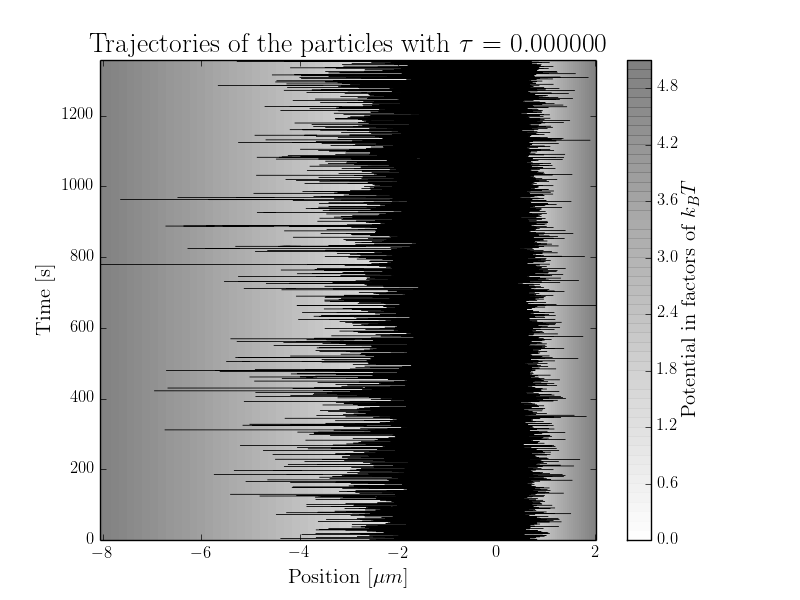
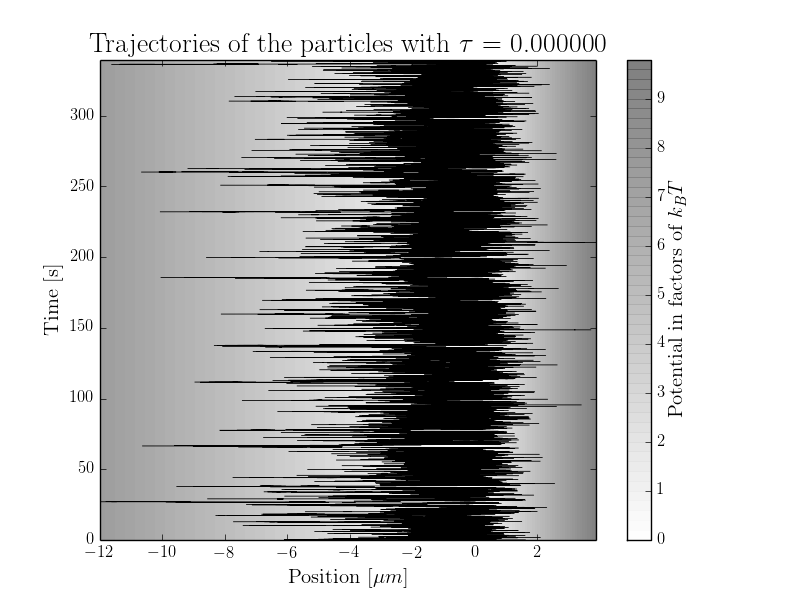
The particles are now Boltzmann distributed. Hurra!

diff --git a/assignment_01/make_plot.py b/assignment_01/make_plot.py
@@ -11,7 +11,7 @@ rc('text', usetex=True)
 import scipy
 from scipy.integrate import quad
 
-
+# Read data from file
 def read_data():
 	fin = open(file_name + '.txt', 'r')
 	dim1, dim2 = [int(x) for x in fin.readline().split()] 	# read first line
@@ -35,16 +35,18 @@ def read_data():
 	data = np.reshape(data, (dim1, dim2))
 	fin.close()
 	return (data, dim1, dim2, dt, alfa, tau, omega, dU, L, kT, minimum, maximum)
-	
+
+# The potential
 def potential(x, alfa):
 
 	x = x - np.floor(x/1.0)*1.0
 	if (x >= 0.0 and x < alfa):
 		U = x/alfa
-	else:
+	elif (x >= alfa and x < 1.0):
 		U = (1.0-x)/(1.0-alfa)
 	return U
 
+# Plot the trajectory of the particle(s) and the potential they are in
 def plot_trajectory(data, dim1, dim2, alfa, tau, minimum, maximum):
 	trajectory = plt.figure()
 	define_color_cycle(trajectory)
@@ -63,7 +65,7 @@ def plot_trajectory(data, dim1, dim2, alfa, tau, minimum, maximum):
 	x = np.linspace(minimum, maximum, nPoints)
 	pot = np.zeros(nPoints)
 	for i in range(0, len(x)):
-		pot[i] = scale_potential*potential(x[i], alfa)
+		pot[i] = scale_potential/kT*potential(x[i], alfa)			# Potential in factors of kT
 	#plt.plot(x*scale_length, 0.2*y[-1]/max(pot) * pot, 'k')		# The potential as a graph
 
 	stuff = np.linspace(0, y[-1], nPoints)
@@ -79,6 +81,7 @@ def plot_trajectory(data, dim1, dim2, alfa, tau, minimum, maximum):
 	# Saving figure
 	plt.savefig('trajectory' + '.png');
 
+# Defines a cosumised color cycle for the plotting
 def define_color_cycle(fig_name):
 	# Define color cycle for the figure fig_name
 	NUM_COLORS = 10
@@ -87,21 +90,19 @@ def define_color_cycle(fig_name):
 	ax.set_color_cycle([cm(1.*i/NUM_COLORS) for i in range(NUM_COLORS)])
 
 
+# Makes a histogram of where in the potential the particles have been and
+# compares it to the true Boltzmann distribution from statistical mechanics
 def make_boltzmann_histogram(data,  dU, kT):
+	# Plot histogram of Boltzmann distribution
 	minimum = min(data)
 	maximum = max(data)
-	hist, bins = np.histogram(data, bins=1000, range=(minimum, maximum), normed=True)
-	
-	# Plot histogram
-	width = (bins[1] - bins[0])
+	hist, bins = np.histogram(data, bins=100, range=(minimum, maximum), normed=True)
 	center = (bins[:-1] + bins[1:]) / 2
-	histogram = plt.figure()
+	histogram = plt.figure()		#plt.bar(center, hist, align='center', width=bins[1] - bins[0])			
+	plt.plot(center, hist,'ro')
 	plt.title(r'Boltzmann Distribution for $dU / k_BT=$ %d'%(dU/kT), fontsize = 20)
 	
-	#plt.bar(center, hist, align='center', width=width)			
-	plt.plot(center, hist,'ro')
-	
-	# Plot Boltzmann distribution
+	# Plot exact Boltzmann distribution
 	boltzmann_dist = lambda U: np.exp(-U/kT) / (kT*(1-np.exp(-dU/kT)))
 	U = np.linspace(minimum, maximum, 1000)
 	plt.plot( U, boltzmann_dist(U) )
@@ -109,7 +110,9 @@ def make_boltzmann_histogram(data,  dU, kT):
 	
 	# Saving figure
 	plt.savefig('boltzmann_distribution' + '.png');
-	
+
+
+# Plots the drift velocity versus flashing period	
 def plot_drift_velocity():
 	temp_arr = np.loadtxt('drift_velocity.txt')
 	taus = []
@@ -124,31 +127,54 @@ def plot_drift_velocity():
 	# Saving figure
 	plt.savefig('drift_velocity' + '.png');
 	
+
+# Checks if the gaussian Box-Müller algorithm really are a normal distribution
+def plot_gaussian():
+	normal_dist = lambda x: 1/np.sqrt(2*np.pi)*np.exp(-x**2/2)
+	x = np.linspace(-5, 5, 1000)
+	rand_gauss = np.loadtxt('check_gaussian.txt')
+	hist, bins = np.histogram(rand_gauss, bins=100, normed=True)
+	center = (bins[:-1] + bins[1:]) / 2
+	gaussian = plt.figure()
+	#plt.bar(center, hist, align='center', width=bins[1] - bins[0])			
+	plt.plot(center, hist,'ro')
+	plt.plot(x, normal_dist(x), 'b')
+	plt.title(r'Standard Gaussian Random Number Generator', fontsize = 20)
 	
-		
+	# Saving figure
+	plt.savefig('normal_distribution' + '.png');
 	
 	
 ############################################################################		
 ### ------------------------------- MAIN ------------------------------- ###
 ############################################################################
 
-make_boltzmann = True
+do_check_gaussian = False
+do_plot_trajectory = True
+do_plot_boltzmann = False
+do_plot_drift_velocity = False
 
 # Read in data [ALL IS IN REDUCED UNITS]
 data, dim1, dim2, dt, alfa, tau, omega, dU, L, kT, minimum, maximum = read_data()
 
-# Convert from reduced units to real units with these scaling factors
-scale_length = L/1.0e-6		# micrometer of real length
-scale_time = 10*dt/omega		# time steps
-scale_potential = dU/kT		# potential in factors of kT
+if do_plot_trajectory:
+	# Convert from reduced units to real units with these scaling factors
+	scale_length = L/1.0e-6			# micrometer of real length
+	scale_time = 10*dt/omega		# time steps
+	scale_potential = dU			# potential
 
-plot_trajectory(data, dim1, dim2, alfa, tau, minimum, maximum)
+	plot_trajectory(data, dim1, dim2, alfa, tau, minimum, maximum)
 
-#plot_drift_velocity()
-
-if make_boltzmann:
+if do_plot_drift_velocity:
+	# do something here!
+	p = 0
+	
+if do_plot_boltzmann:
 	U = np.zeros(len(data[0][:]))
 	for i in range(0, len(data[0][:])):				# convert to real potential
 		U[i] = dU*potential(data[0][i], alfa)
 	
 	make_boltzmann_histogram(U, dU, kT)
+	
+if do_check_gaussian:
+	plot_gaussian()
